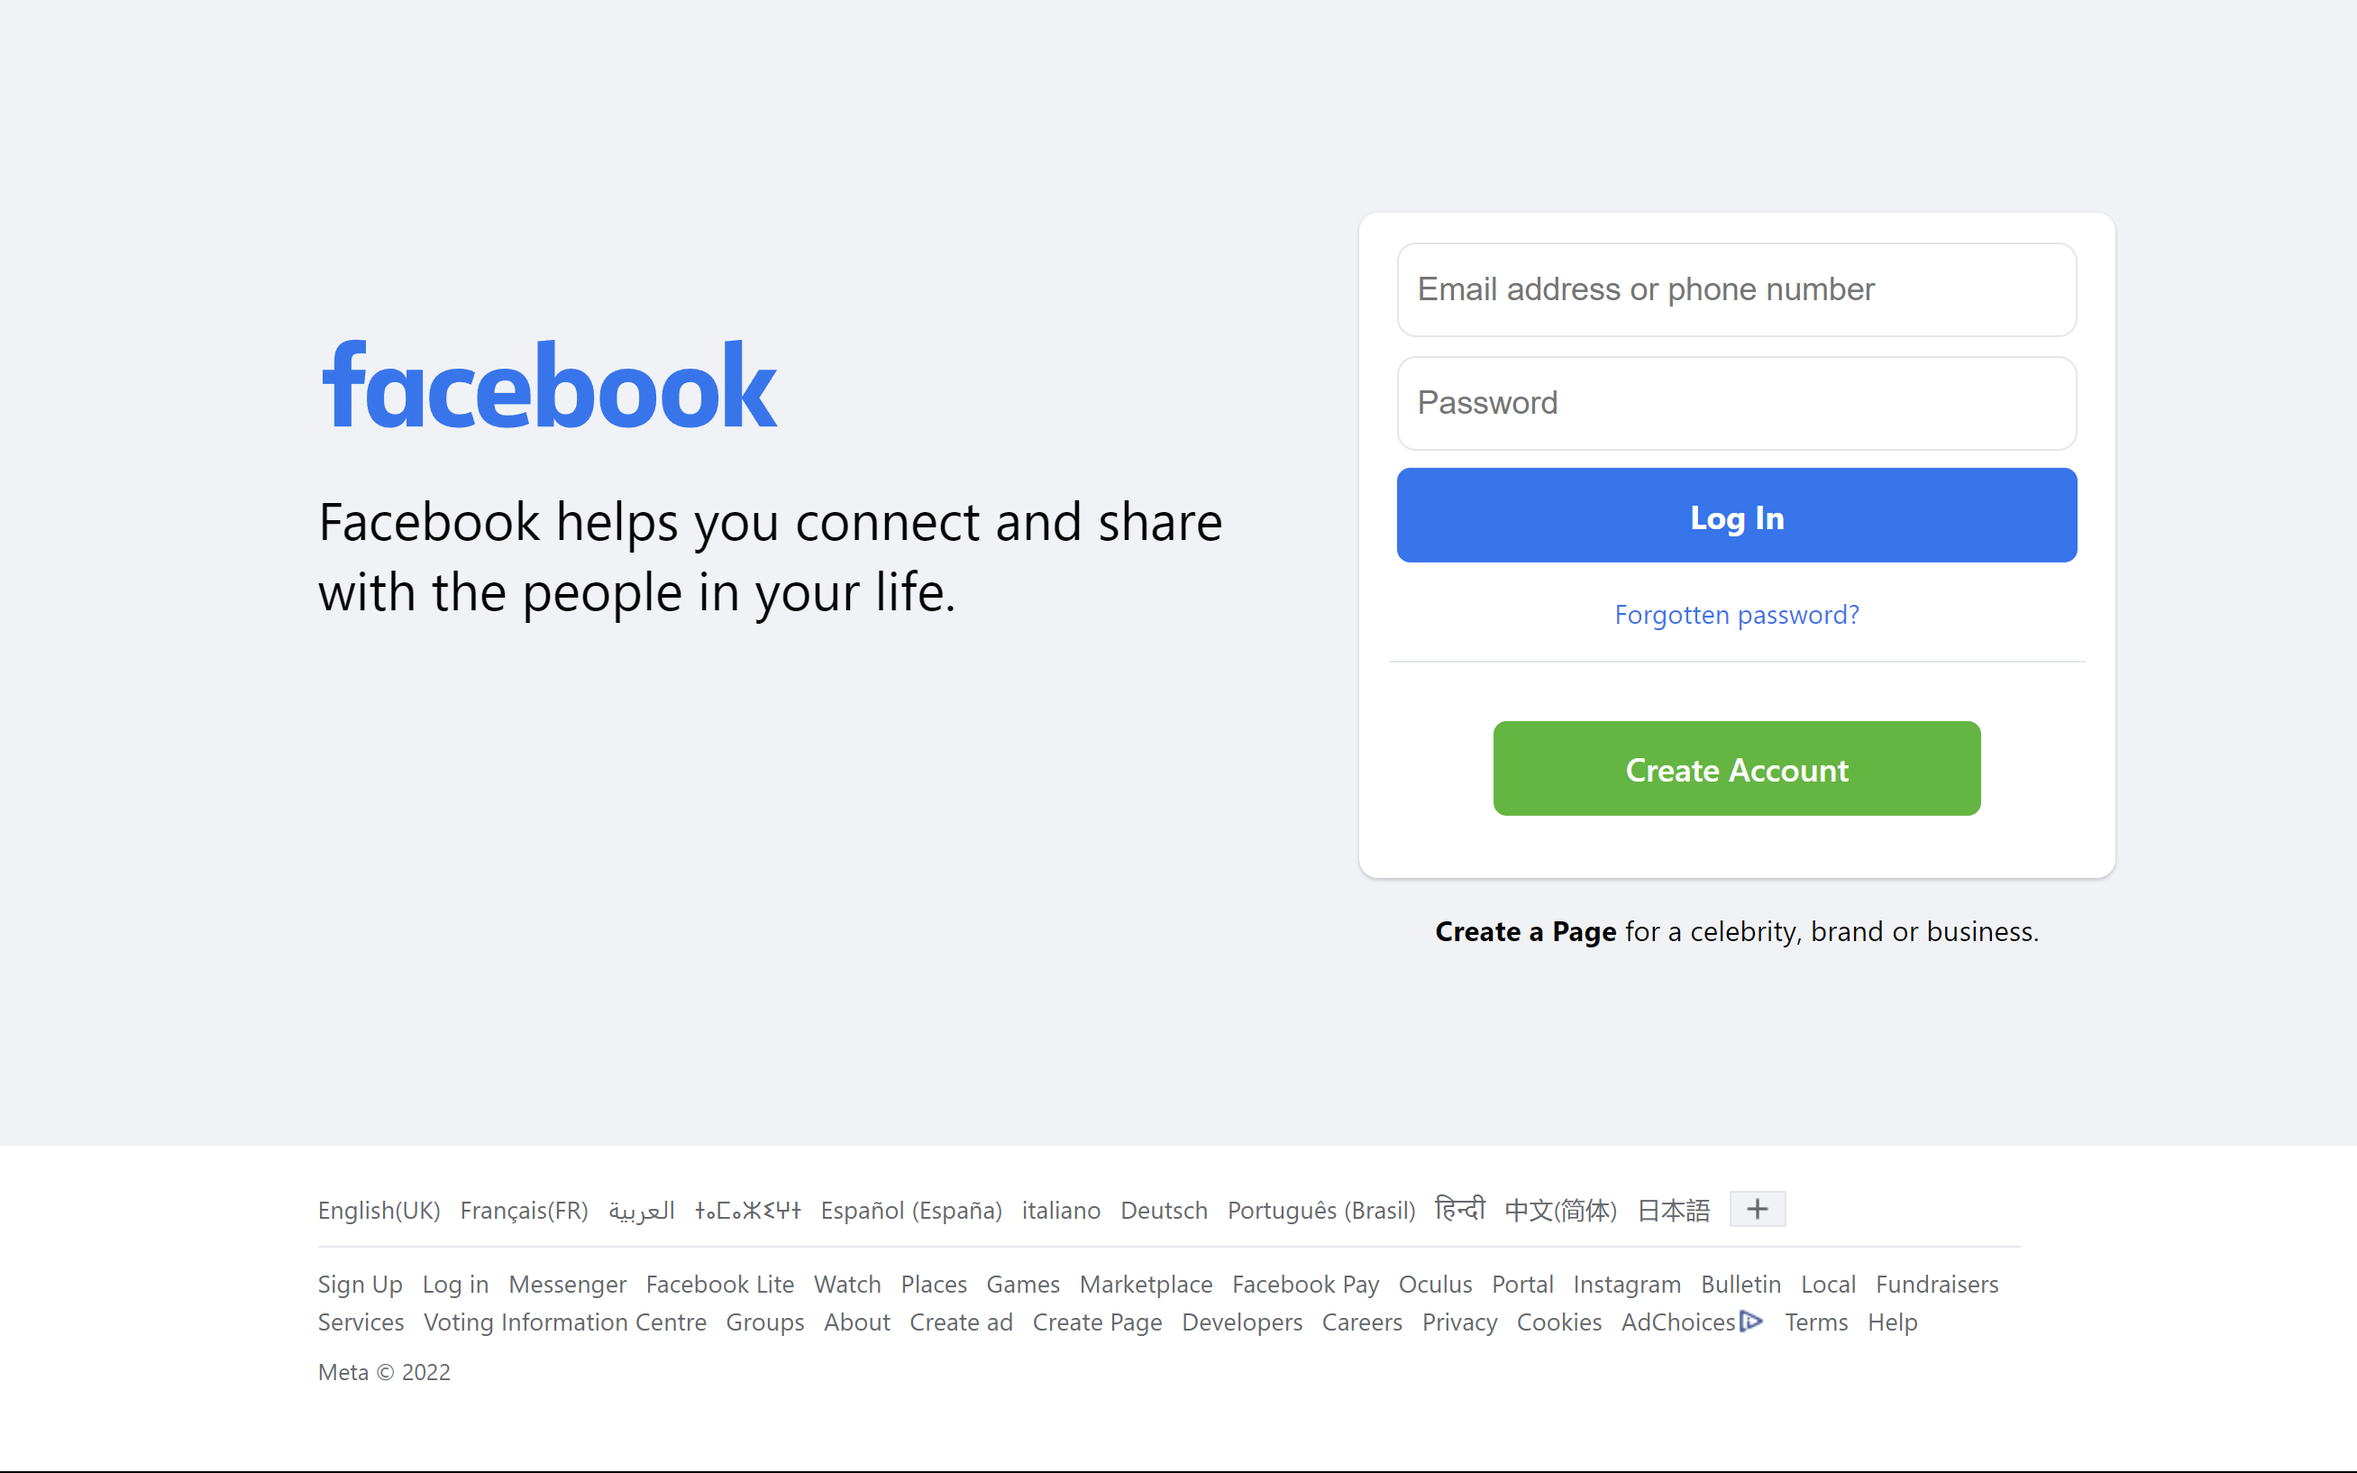
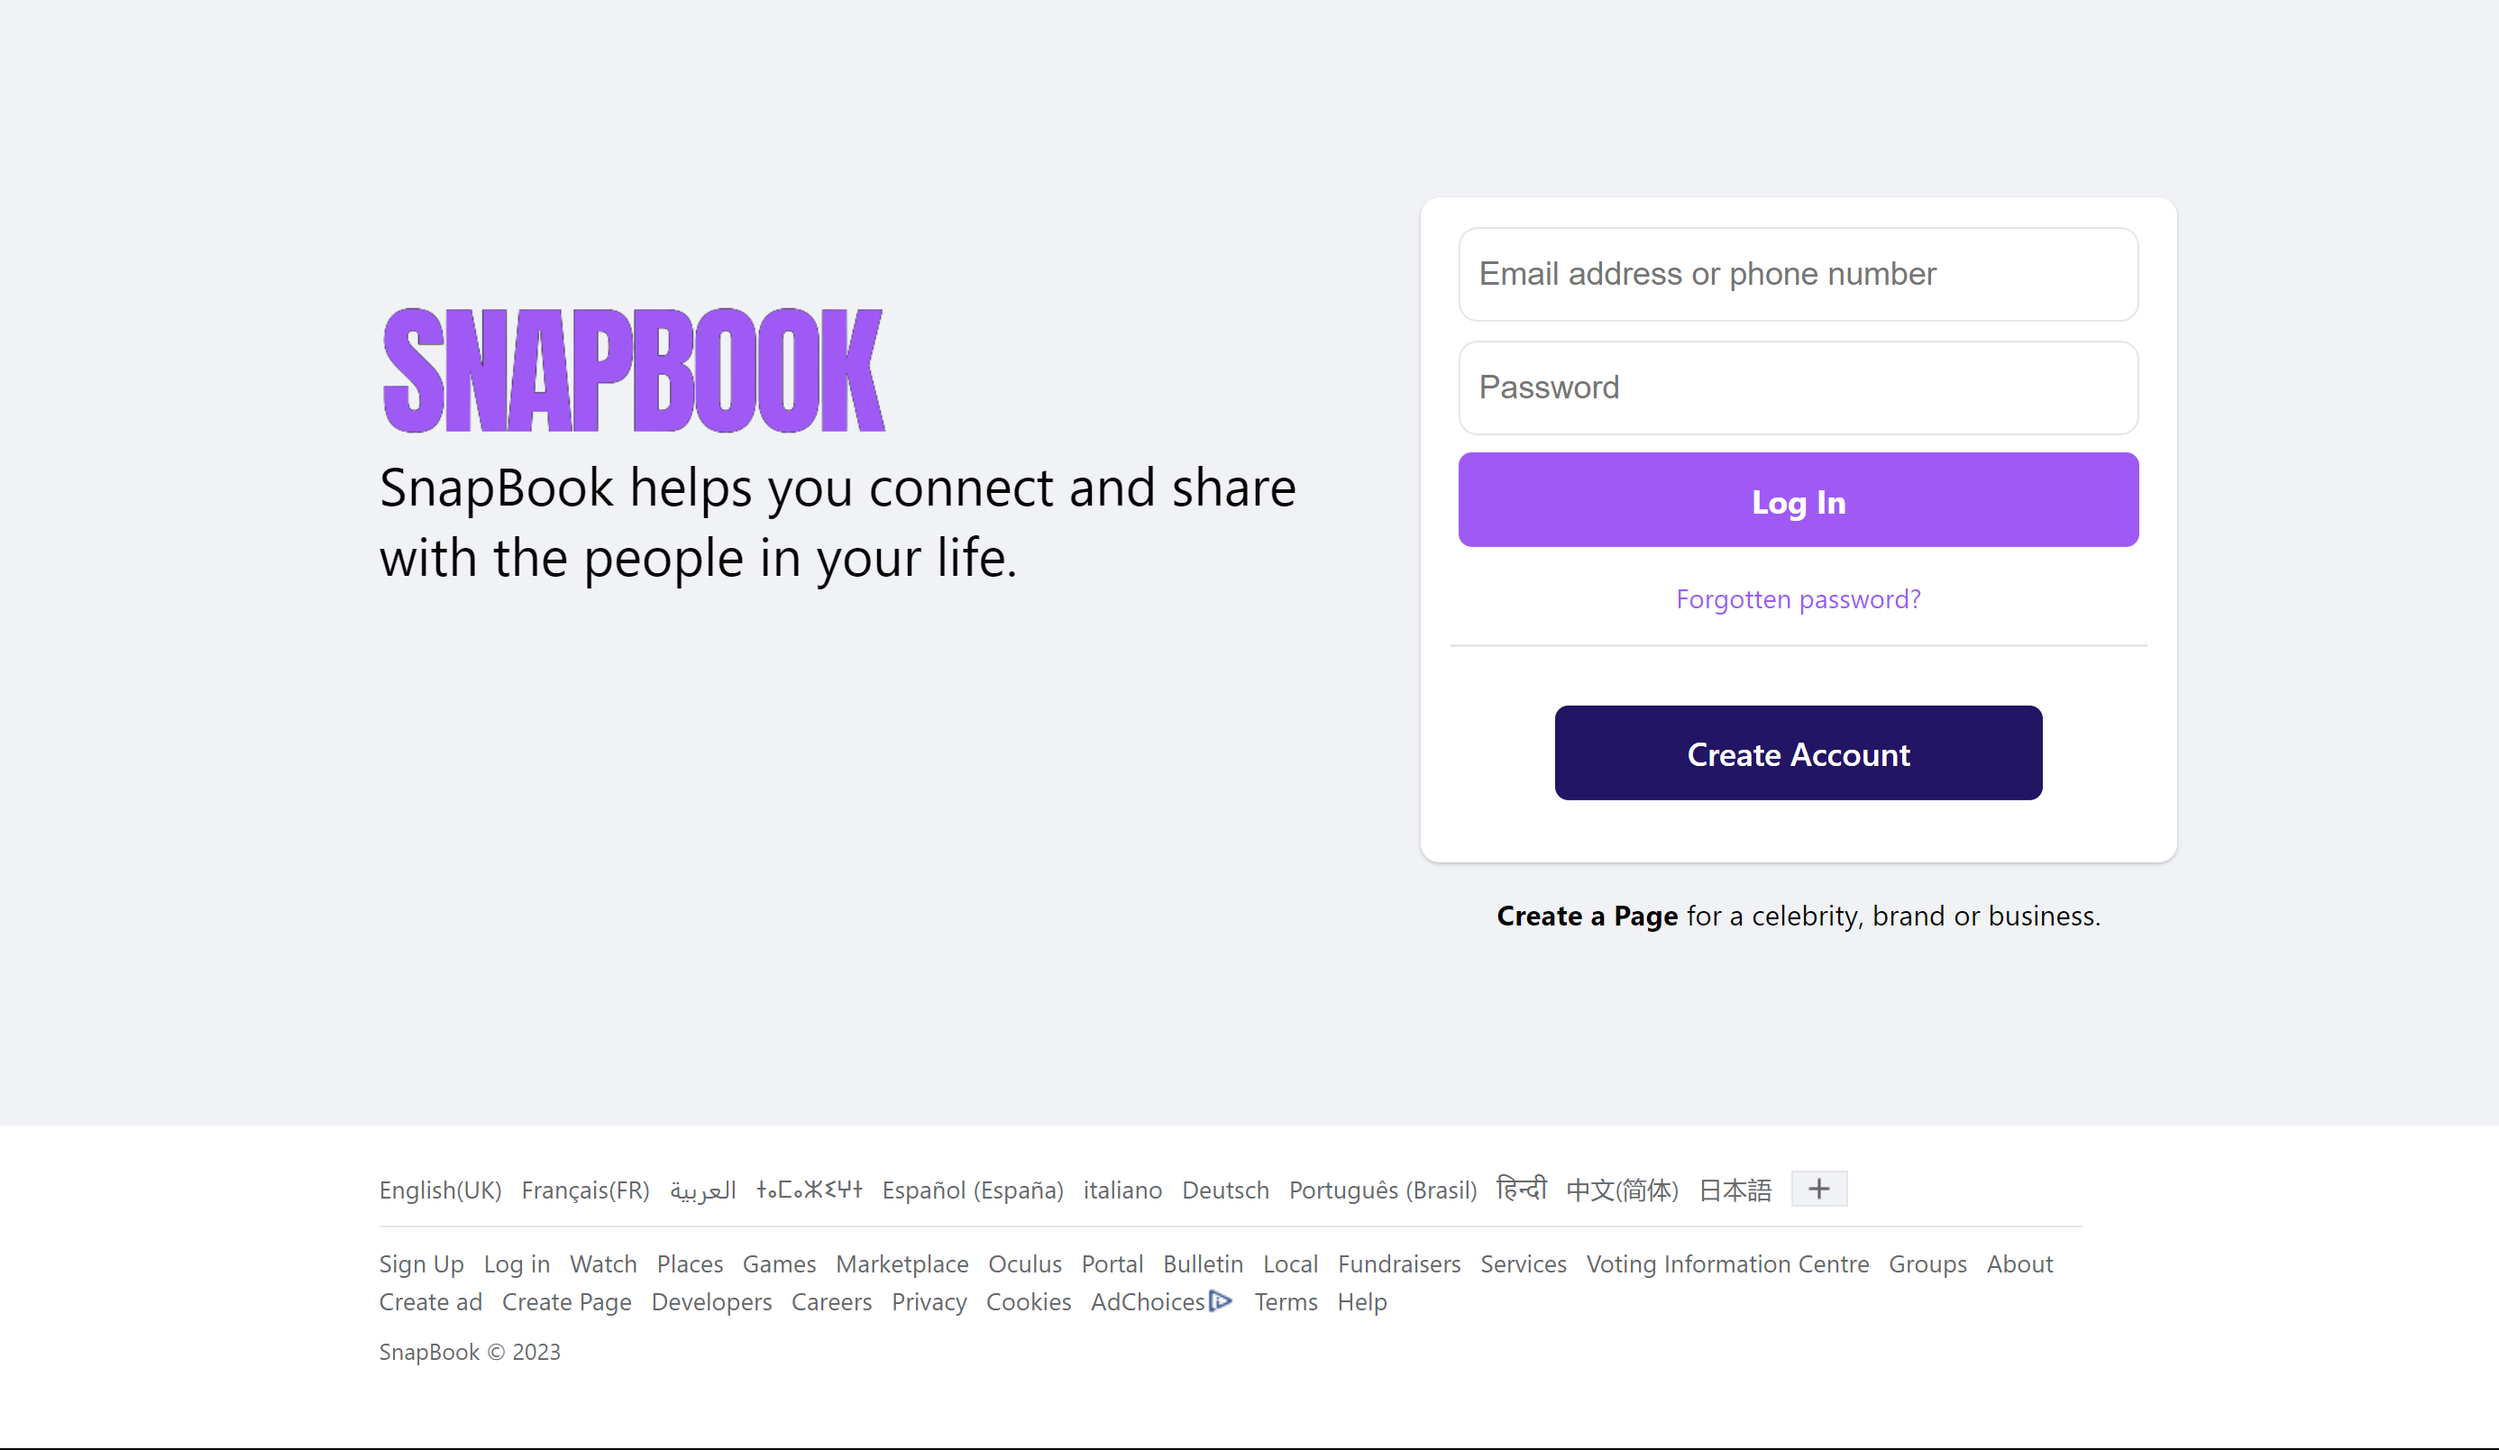
added new stuff

diff --git a/src/Home/Home.js b/src/Home/Home.js
@@ -122,14 +122,6 @@ function Home() {
             <p>___</p>
           </div>
 
-          {/* <div className="skill-set-box">
-            <h1 className="skill-set-box-h1">DSA</h1>
-            <p className="skill-set-box-p">
-              I use them to solve problems more efficiently
-            </p>
-            <p>___</p>
-          </div> */}
-
           <div className="skill-set-box">
             <h1 className="skill-set-box-h1">HTML5</h1>
             <p className="skill-set-box-p">
@@ -149,8 +141,7 @@ function Home() {
           <div className="skill-set-box">
             <h1 className="skill-set-box-h1">javascript</h1>
             <p className="skill-set-box-p">
-              With this technology i create visual effects and interaction and
-              DOM elements
+              Used for web development to create interactive and dynamic content
             </p>
             <p>___</p>
           </div>
@@ -158,40 +149,51 @@ function Home() {
           <div className="skill-set-box">
             <h1 className="skill-set-box-h1">React.js</h1>
             <p className="skill-set-box-p">
-              I loved it! I use it to create applications that have lot of
-              reactivity
+              A JavaScript library for building user interfaces, particularly
+              for single-page applications
             </p>
             <p>___</p>
           </div>
-          <div className="skill-set-box">
-            <h1 className="skill-set-box-h1">Greensock - GSAP</h1>
-            <p className="skill-set-box-p">
-              I used this as an animation library, The most loved ones!
-            </p>
-            <p>___</p>
-          </div>
-
-          {/* <div className="skill-set-box">
-            <h1 className="skill-set-box-h1">Three.js</h1>
-            <p className="skill-set-box-p">
-              This library deals and simplifies the working with webgl and glsl
-            </p>
-            <p>___</p>
-          </div> */}
-
-          {/* <div className="skill-set-box">
-            <h1 className="skill-set-box-h1">Sass</h1>
-            <p className="skill-set-box-p">
-              I prefer this also instead of CSS beacouse of advance
-              functionalities
-            </p>
-            <p>___</p>
-          </div> */}
 
           <div className="skill-set-box">
             <h1 className="skill-set-box-h1">Node.js</h1>
             <p className="skill-set-box-p">
-              I use it to writing server scripting for applications
+              A JavaScript runtime for server-side development, handling backend
+              tasks
+            </p>
+            <p>___</p>
+          </div>
+
+          <div className="skill-set-box">
+            <h1 className="skill-set-box-h1">Express.js</h1>
+            <p className="skill-set-box-p">
+              A Node.js framework for building web applications and APIs
+            </p>
+            <p>___</p>
+          </div>
+
+          <div className="skill-set-box">
+            <h1 className="skill-set-box-h1">PHP</h1>
+            <p className="skill-set-box-p">
+              A server-side scripting language for web development, processing
+              forms, and more
+            </p>
+            <p>___</p>
+          </div>
+
+          <div className="skill-set-box">
+            <h1 className="skill-set-box-h1">WordPress</h1>
+            <p className="skill-set-box-p">
+              A content management system (CMS) for creating and managing
+              websites
+            </p>
+            <p>___</p>
+          </div>
+
+          <div className="skill-set-box">
+            <h1 className="skill-set-box-h1">Greensock - GSAP</h1>
+            <p className="skill-set-box-p">
+              I used this as an animation library, The most loved ones!
             </p>
             <p>___</p>
           </div>
@@ -203,14 +205,6 @@ function Home() {
             </p>
             <p>___</p>
           </div>
-
-          {/* <div className="skill-set-box">
-            <h1 className="skill-set-box-h1">Illustrator</h1>
-            <p className="skill-set-box-p">
-              I use to make creative svgs and illustrations for website
-            </p>
-            <p>___</p>
-          </div> */}
         </div>
         <div className="project-and-work">
           <h1>

diff --git a/src/Projects/Projects.js b/src/Projects/Projects.js
@@ -48,14 +48,48 @@ function Projects() {
               <div className="project-page-item-number">
                 <p>06/23</p>
               </div>
-              <a href="https://ffaceb00k.netlify.app/" target="_blank">
+              <a href="https://snap-book.netlify.app/" target="_blank">
                 <div className="project-page-item-header">
-                  <h1>Social Media Website</h1>
-                  <p>FaceBook Clone</p>
+                  <h1>SnapBook</h1>
+                  <p>Social Media Website</p>
                 </div>
                 <div className="project-page-item-image project-page-item-image1"></div>
                 <div className="project-page-item-footer">
                   <p>This is a fully responsive social media website.</p>
+                  <img src={arrow} alt="" />
+                </div>
+              </a>
+            </div>
+
+            <div className="project-page-item">
+              <div className="project-page-item-number">
+                <p>07/23</p>
+              </div>
+              <a href="https://votewise.free.nf/" target="_blank">
+                <div className="project-page-item-header">
+                  <h1>VoteWise</h1>
+                  <p>Online Voting System</p>
+                </div>
+                <div className="project-page-item-image project-page-item-image7"></div>
+                <div className="project-page-item-footer">
+                  <p>This is an online election voting website.</p>
+                  <img src={arrow} alt="" />
+                </div>
+              </a>
+            </div>
+
+            <div className="project-page-item">
+              <div className="project-page-item-number">
+                <p>08/23</p>
+              </div>
+              <a href="https://lifelines.lovestoblog.com/" target="_blank">
+                <div className="project-page-item-header">
+                  <h1>WiseLines</h1>
+                  <p>Blogging Website</p>
+                </div>
+                <div className="project-page-item-image project-page-item-image8"></div>
+                <div className="project-page-item-footer">
+                  <p>This is a fully responsive blogging website.</p>
                   <img src={arrow} alt="" />
                 </div>
               </a>
@@ -73,6 +107,23 @@ function Projects() {
                 <div className="project-page-item-image project-page-item-image2"></div>
                 <div className="project-page-item-footer">
                   <p>This is a marketing website social media agency.</p>
+                  <img src={arrow} alt="" />
+                </div>
+              </a>
+            </div>
+
+            <div className="project-page-item">
+              <div className="project-page-item-number">
+                <p>08/23</p>
+              </div>
+              <a href="https://snake-feast.netlify.app/" target="_blank">
+                <div className="project-page-item-header">
+                  <h1>Snake-Feast</h1>
+                  <p>A Snake Game</p>
+                </div>
+                <div className="project-page-item-image project-page-item-image9"></div>
+                <div className="project-page-item-footer">
+                  <p>This is a full responsive OG snake game.</p>
                   <img src={arrow} alt="" />
                 </div>
               </a>
@@ -154,7 +205,6 @@ function Projects() {
           </div>
         </div>
       </div>
-      <GetInTouch />
       <Footer />
     </div>
   );

diff --git a/src/Projects/Projects.css b/src/Projects/Projects.css
@@ -54,7 +54,7 @@
   transition: transform 0.6s cubic-bezier(0.16, 1, 0.3, 1);
 }
 .project-page-item:hover {
-  transform: scale(1.05);
+  transform: scale(1.1);
 }
 .project-page-item-number p {
   font-size: 10px;
@@ -117,7 +117,7 @@
 }
 .project-page-item-image2 {
   background-image: url(../Assets/project2.png);
-  filter: grayscale(0.3);
+  filter: grayscale(0.2);
 }
 .project-page-item-image3 {
   background-image: url(../Assets/project3.png);
@@ -133,6 +133,18 @@
 }
 .project-page-item-image6 {
   background-image: url(../Assets/project6.png);
+  filter: grayscale(0.3);
+}
+.project-page-item-image7 {
+  background-image: url(../Assets/project7.png);
+  filter: grayscale(0.3);
+}
+.project-page-item-image8 {
+  background-image: url(../Assets/project8.png);
+  filter: grayscale(0.3);
+}
+.project-page-item-image9 {
+  background-image: url(../Assets/project9.png);
   filter: grayscale(0.3);
 }
 

diff --git a/src/Footer/Footer.js b/src/Footer/Footer.js
@@ -9,7 +9,7 @@ function Footer() {
         <div className="footer-container">
           <div className="message-for-users">
             <span>
-              Please contact me
+              Contact me
               <br />
               in any way you like
             </span>
@@ -46,9 +46,9 @@ function Footer() {
             <div className="social-links-h highlight">Contact</div>
             <div className="social-links-items">
               <a href="mailto: tondakharsh@gmail.com">Mail</a>
-              <a href="">Whatsapp</a>
-              <a href="">Telegram</a>
-              <a href="">+91 9650910770</a>
+              {/* <a href="">Whatsapp</a>
+              <a href="">Telegram</a> */}
+              <a href="">+91 9650910XXX</a>
             </div>
           </div>
           <div className="footer-menu social-links">

diff --git a/src/About/About.js b/src/About/About.js
@@ -132,6 +132,7 @@ function About() {
                 applications in our day-to-day lives.
                 <br /> I also love photo editing and currently learning to make
                 2-D animations.
+                <br /> My areas of interest are: Machine Learning & Web Dev.
               </p>
             </div>
 
@@ -156,7 +157,6 @@ function About() {
             </div>
           </div>
           <div className="about-footer">
-            <GetInTouch />
             <Footer />
           </div>
         </div>

diff --git a/src/Home/Home.css b/src/Home/Home.css
@@ -48,6 +48,14 @@
 .line-bottom {
   margin-top: -14vw;
 }
+#harsh {
+  color: transparent;
+  -webkit-text-stroke: 1px #000;
+}
+
+#harsh:hover {
+  color: #000;
+}
 
 .container1 #designer p i {
   color: #642420;

diff --git a/src/App.css b/src/App.css
@@ -35,6 +35,10 @@ body {
 ::-webkit-scrollbar {
   display: none;
 }
+*::selection {
+  color: #ffff;
+  background-color: #000;
+}
 
 .cursor-follower {
   position: absolute;
